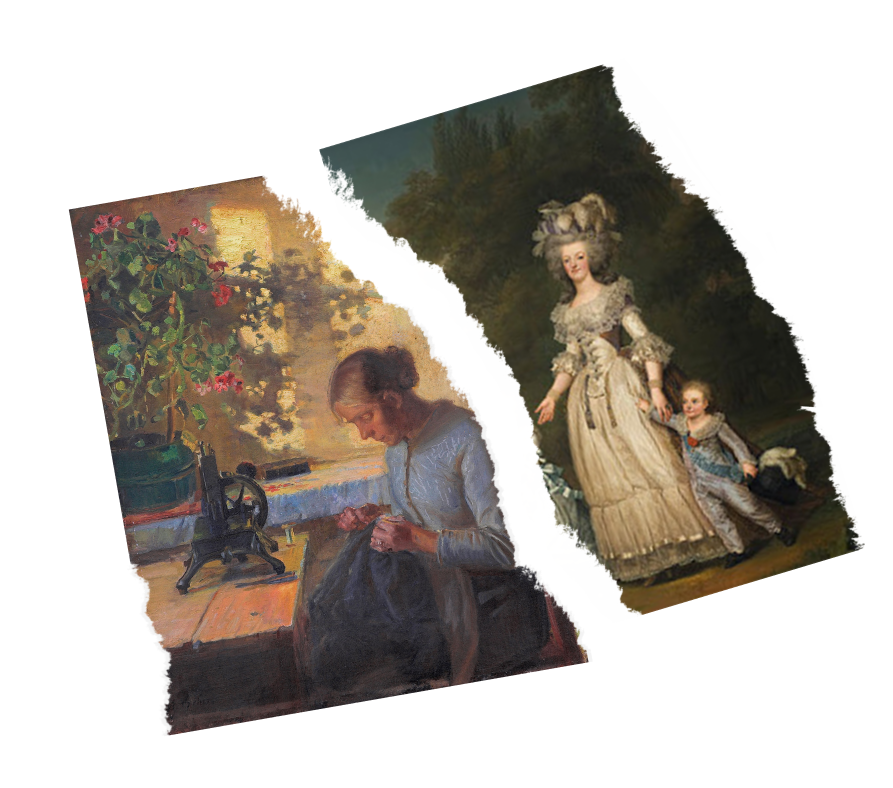
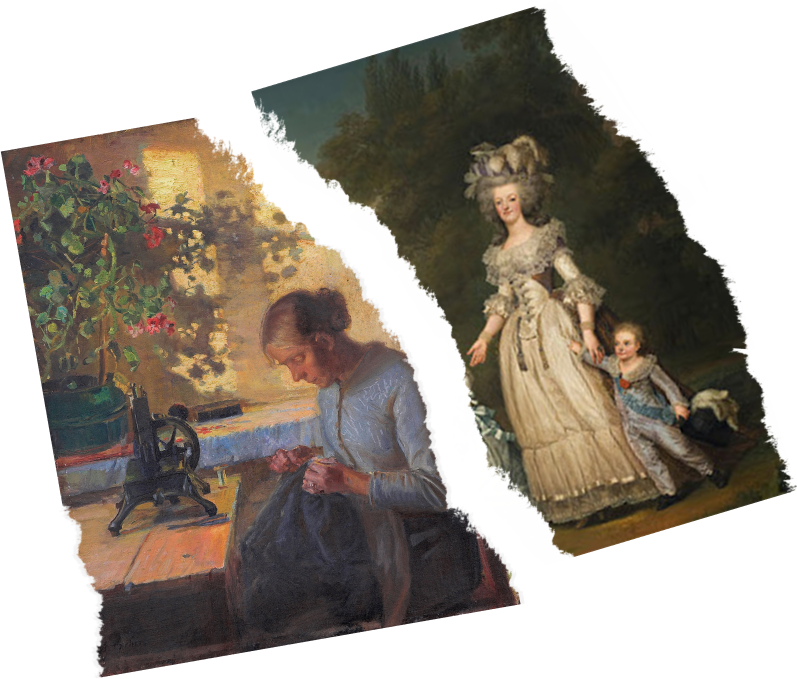
Content detail page

diff --git a/web/www/src/components/Detail/index.jsx b/web/www/src/components/Detail/index.jsx
@@ -77,40 +77,63 @@ const Detail = () => {
       </article>
 
       <article className={`${styles.container} ${styles.living}`}>
-        <h2 className={styles.title}>Family Evans</h2>
-        <p className={styles.text}>
-          The family Evans lived in a very comfortable house. For the first
-          time, furniture was made in mass-production which meant that it was
-          cheaper. However this was in cost of the design. Due to this, middle
-          class families had overcrowded homes with lots of furtniture,
-          ornaments and knick-knacks.
-        </p>
-        <p className={styles.text}>
-          They had a house with two rooms upstairs and two downstairs. The two
-          rooms downstairs were used kitching and living room while thet wo
-          upstairs were bedrooms.
-        </p>
+        <div className={styles.living__text}>
+          <h2 className={styles.title}>Family Evans</h2>
+          <p className={styles.text}>
+            The family Evans lived in a very comfortable house. For the first
+            time, furniture was made in mass-production which meant that it was
+            cheaper. However this was in cost of the design. Due to this, middle
+            class families had overcrowded homes with lots of furtniture,
+            ornaments and knick-knacks.
+          </p>
+          <p className={styles.text}>
+            They had a house with two rooms upstairs and two downstairs. The two
+            rooms downstairs were used kitching and living room while thet wo
+            upstairs were bedrooms.
+          </p>
+        </div>
+        <div className={styles.living__img}>
+          <img
+            className={styles.living__imgFamily}
+            src="./assets/img/detail/MargeretEvans_family.png"
+            alt="Family"
+            width="260px"
+          />
+          <img
+            src="./assets/img/detail/MargeretEvans_house.png"
+            alt="House"
+            width="560px"
+          />
+        </div>
       </article>
 
       <article className={`${styles.container} ${styles.work}`}>
         <h2 className={styles.hidden}>Work</h2>
-        <section>
-          <h3 className={styles.title}>Sewer</h3>
-          <p className={styles.text}>
-            Back in the 1800’s a lot of women used to be charwomen, laundresses
-            or servant. While men and childeren usually worked in the factories
-            and did long shifts every day.
-          </p>
-        </section>
-        <section>
-          <h3 className={styles.title}>Clothes</h3>
-          <p className={styles.text}>
-            In the 19th century, only the rich could afford nice looking
-            clothing. Shoes, for example, were a luxery and not a lot of people
-            owned them. Being a sewer back in the day was a good job. These
-            types of clothing were called corsets and knickers.
-          </p>
-        </section>
+        <img
+          className={styles.work__img}
+          src="./assets/img/detail/MargeretEvans_work.png"
+          alt="Work"
+          width="800px"
+        />
+        <div className={styles.work__text}>
+          <section>
+            <h3 className={styles.title}>Sewer</h3>
+            <p className={styles.text}>
+              Back in the 1800’s a lot of women used to be charwomen,
+              laundresses or servant. While men and childeren usually worked in
+              the factories and did long shifts every day.
+            </p>
+          </section>
+          <section>
+            <h3 className={styles.title}>Clothes</h3>
+            <p className={styles.text}>
+              In the 19th century, only the rich could afford nice looking
+              clothing. Shoes, for example, were a luxery and not a lot of
+              people owned them. Being a sewer back in the day was a good job.
+              These types of clothing were called corsets and knickers.
+            </p>
+          </section>
+        </div>
       </article>
 
       <article className={styles.container}>
@@ -119,13 +142,21 @@ const Detail = () => {
           <span className={styles.timeframe__dates}>1815 - 1914</span>
         </div>
         <section className={styles.death__start}>
-          <h3 className={styles.subtitle}>The start</h3>
-          <p className={styles.text}>
-            During the 19th century life changed into the Industrial Revolution.
-            Margaret was born into this revolution as a sewer. At the start of
-            the century it caused many problems but later on the lifes of the
-            people became more comfortable for the ordinary.
-          </p>
+          <img
+            className={styles.death__img}
+            src="./assets/img/detail/MargeretEvans_death.png"
+            alt="Death"
+            width="540px"
+          />
+          <div className={styles.death__text}>
+            <h3 className={styles.subtitle}>The start</h3>
+            <p className={styles.text}>
+              During the 19th century life changed into the Industrial
+              Revolution. Margaret was born into this revolution as a sewer. At
+              the start of the century it caused many problems but later on the
+              lifes of the people became more comfortable for the ordinary.
+            </p>
+          </div>
         </section>
       </article>
     </>

diff --git a/web/www/src/components/Detail/Detail.module.css b/web/www/src/components/Detail/Detail.module.css
@@ -78,8 +78,31 @@
     font-size: 13rem;
 }
 
+  /* background-image: url("./../../../public/assets/img/onboarding_bg.png"); */
+  /* als applicatie draait root map, anders package.json public path */
+
 .timeframe {
     margin-bottom: 20rem;
+}
+
+.timeframe::before {
+    z-index: -1;
+    content: '';
+    position: absolute;
+    background-image: url("/assets/img/detail/MargeretEvans_revolution.png");
+    background-repeat: no-repeat;
+
+    /* Position */
+    margin-top: -10rem;
+    left: 0;
+
+    /* Image size */
+    background-size: auto 100%;
+
+    /* Canvas size */
+    width: 50vw;
+    height: 85rem;
+    
 }
 
 .timeframe__title {
@@ -105,13 +128,40 @@
 }
 
 .living {
-    padding-right: 63rem;
+    /* padding-right: 63rem; */
     margin-bottom: 20rem;
+    display: flex;
+    justify-content: space-between;
+}
+
+.living__text {
+    max-width: 42rem;
+}
+
+.living__img {
+    margin-top: -8rem;
+}
+
+.living__imgFamily {
+    position: absolute;
+    transform: translate(-8rem, 20rem)
 }
 
 .work {
-    padding-left: 63rem;
+    /* padding-left: 63rem; */
     margin-bottom: 20rem;
+    display: flex;
+}
+
+.work__img {
+    position: absolute;
+    z-index: -1;
+    transform: translate(-8rem, -15rem);
+}
+
+.work__text {
+    max-width: 41rem;
+    margin-left: auto;
 }
 
 .work section {
@@ -120,5 +170,15 @@
 
 .death__start {
     margin-top: 15rem;
-    padding-left: 63rem;
+    /* padding-left: 63rem; */
+    display: flex;
+    justify-content: space-between;
+}
+
+.death__text {
+    max-width: 41rem;
+}
+
+.death__img {
+    transform: translate(0, -10rem);
 }
